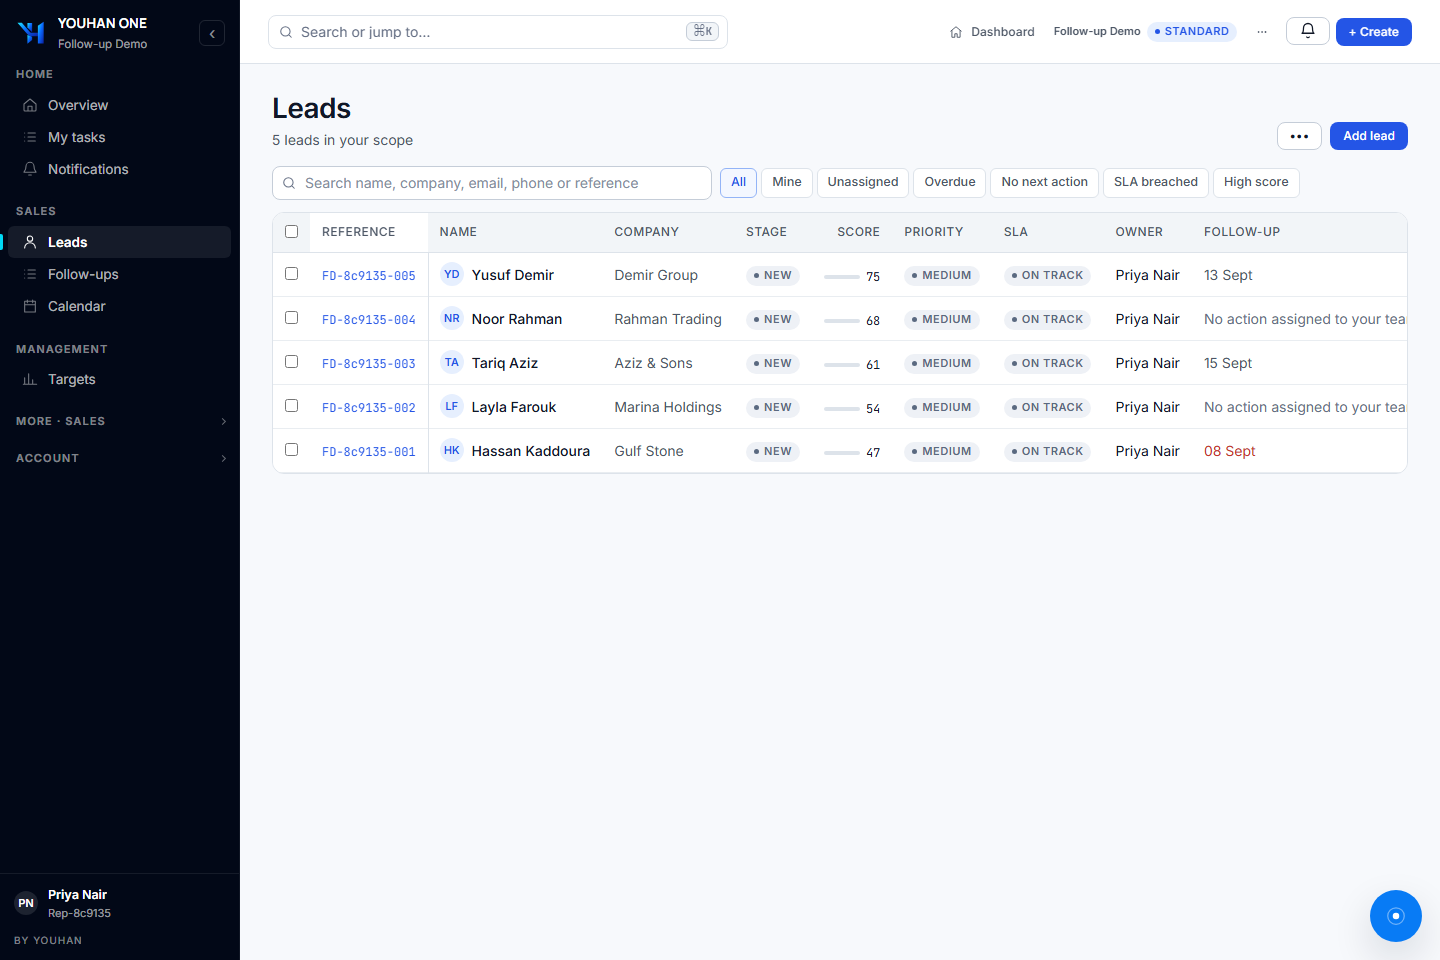
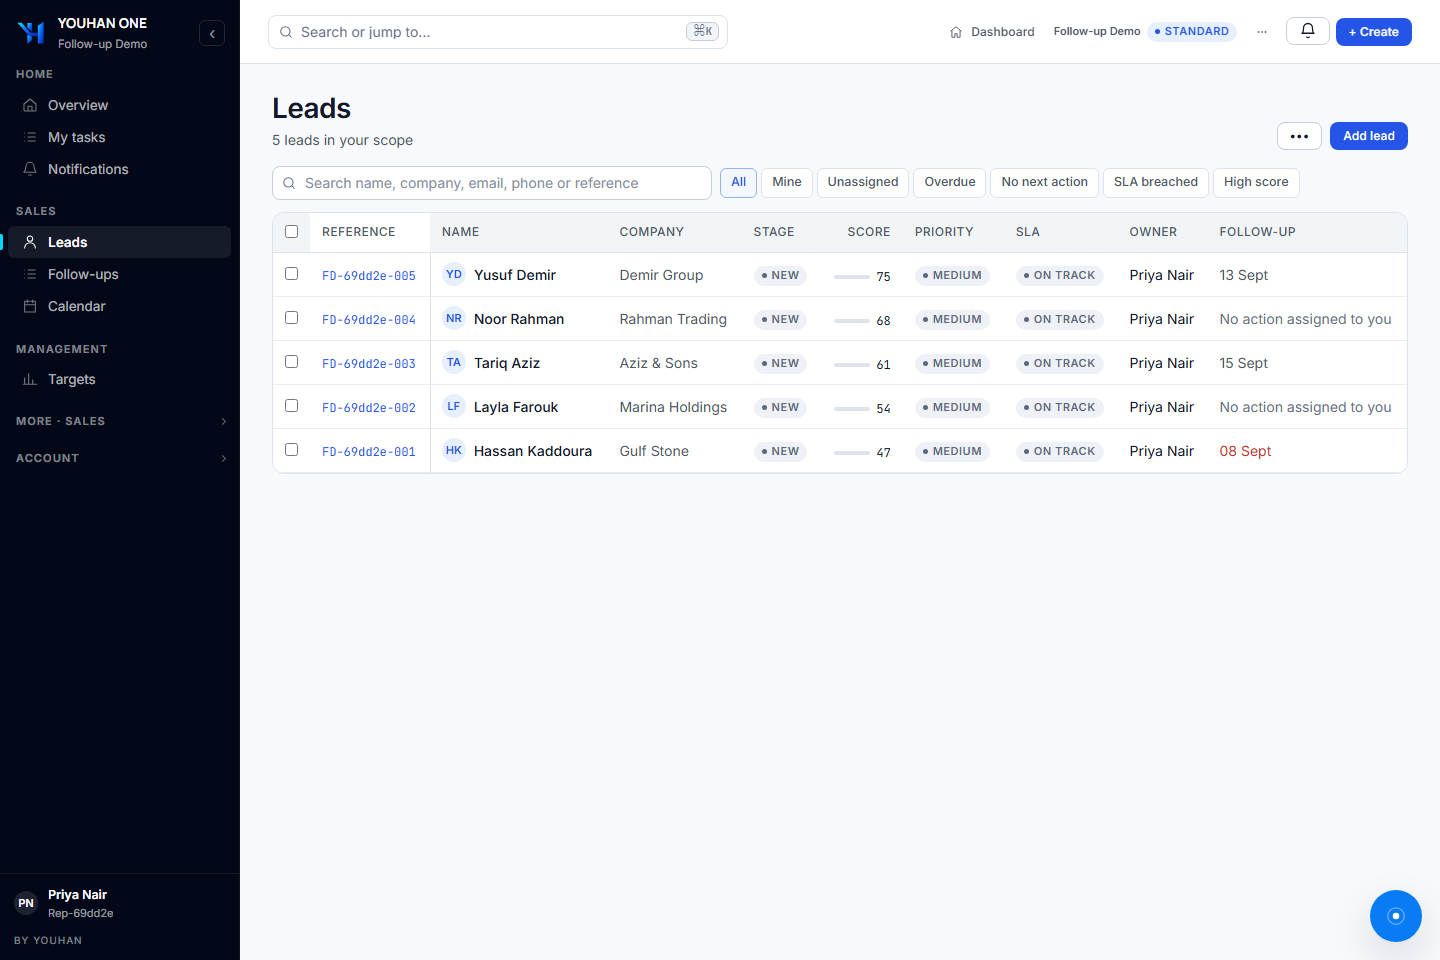
docs(release): release assessment, deployment runbook and handover guide
The assessment reconciles the gate count: neither 13 nor 14 matched CI, which
requires sixteen. Both earlier figures omitted Integration (server) and E2E
entirely — the two gates that exercise a running application — and the
difference between them was only whether the unit suite was counted. Both are
run here.

Recommendation is CONDITIONAL GO, not GO. Booking confirmation takes no row
lock, never moves the unit and has no database constraint, so the same unit can
be sold twice; it is proposed for deferral with the permission restricted,
which is a decision for the client owner rather than something to quietly drop.
The browser-level HR journey did not run — the suite's hire step reads a route
production disables by design — so leave, attendance and payroll have 307
service tests behind them and no browser evidence this round. Runbook smoke
tests 12-15 close that by hand.

The runbook separates application rollback from database recovery and states
that the previous application runs correctly against the new schema, so rollback
needs no database restore. Evidence for each claim is named.

diff --git a/docs/product/HANDOVER-GUIDE.md b/docs/product/HANDOVER-GUIDE.md
@@ -1,0 +1,156 @@
+# Handover guide — YOUHAN ONE / Master Suite
+
+For the people who will use the system on day one, and the people supporting
+them. Short on purpose.
+
+---
+
+## 1. Accounts
+
+**Every person gets their own account.** The `demo@…` accounts created by the
+seed are **not** for production use: they are shared credentials with broad
+permissions, every action they take is attributed to "demo" in the audit trail,
+and anyone who has ever seen the demo can sign in as one.
+
+| Role | Who | What they can reach |
+| --- | --- | --- |
+| Sales Representative | Agents | Their own leads, their own tasks |
+| Team Manager | Team leads | Their team's leads and tasks, reassignment |
+| Branch / Regional Manager | Branch and region heads | Their branch or region |
+| Sales Director | Head of sales | The whole workspace |
+| HR Administrator | HR | Employee records, leave, payroll |
+| Employee | Everyone with an HR record | Their own attendance, leave and payslips |
+
+**First login for every account:** the administrator issues a temporary
+password, and the person is taken straight to "set your own password" and cannot
+go anywhere else until they have. That is intended — do not work around it by
+sharing one account.
+
+---
+
+## 2. Agents — your day
+
+**Your leads list is the start.** `Leads` in the sidebar.
+
+The **Follow-up** column is now **your** next action on that lead — not the
+team's, not your manager's. It reads one of three ways:
+
+| It says | It means |
+| --- | --- |
+| A date in red | You are late |
+| A date in grey | That is when you next owe something |
+| **No action assigned to you** | You have nothing scheduled here. Somebody else may or may not — the system does not tell you, because that is their business. |
+
+**The chips above the list:**
+
+- **Overdue** — leads where *you* are late.
+- **No next action** — live leads with nothing scheduled by you. **These are the
+  ones that quietly go cold.** Work this list once a day.
+- **Mine**, **Unassigned**, **SLA breached**, **High score** — as before.
+
+**On a phone**, the follow-up state is now visible on the lead card. You no
+longer have to open each lead to see what you owe.
+
+**To schedule your next action:** open the lead → add a task or a follow-up with
+a due date. The Follow-up column updates immediately — you do not have to set a
+date on the lead separately, and there is no longer a field that lets you.
+
+**Rescheduling** is changing the due date on the task or follow-up. **Completing**
+it clears the column, unless you have something else open on that lead.
+
+---
+
+## 3. Managers — your day
+
+Everything above, plus:
+
+**Two Overdue chips, and they are different questions:**
+
+- **Overdue · team** — anything late across the people you manage.
+- **Overdue · mine** — only your own commitments.
+
+Counts, filters, dates and the list all use the same definition, so the number
+on your dashboard and the rows you get when you click it agree.
+
+**The unassigned-lead queue** (`Sales → Allocation → Waiting`) lists leads the
+system could not allocate, with the reason. Leads that were already unassigned
+when the system went live show **"Unknown"** for how long they have been waiting
+— that is deliberate. The system does not know, and inventing "3 minutes" for a
+lead that has sat for eight months would be worse than saying nothing.
+
+**Reassignment** is audited. A deactivated employee can no longer receive a new
+lead — if allocation skips someone, that is why.
+
+---
+
+## 4. HR
+
+Employee self-service, attendance, leave, overtime and payroll work as before.
+Two things to know:
+
+1. **Approved leave now blocks lead allocation.** An agent on approved leave will
+   not be given new leads. **A half-day of leave currently blocks the whole
+   day** — the system cannot yet tell which half. If that matters, tell support
+   and record it as a business requirement; do not work around it by cancelling
+   the leave.
+2. **Leave reasons and medical details never reach Sales.** A sales manager
+   seeing that an agent is unavailable sees only "unavailable", never why.
+
+---
+
+## 5. Known limitations to tell people about on day one
+
+| Thing | What people will see | What to say |
+| --- | --- | --- |
+| Booking and agency fee collection | Not part of this release | Use the existing process; it is scheduled next |
+| A saved view built on "next follow-up date" | An explicit notice, and an unfiltered list | Use the **Overdue** or **No next action** view, or rebuild the saved view |
+| Sorting by Follow-up | Sorts the page you are on, not all results | Filter first, then sort |
+| Reminders | Do not fire for follow-ups, only tasks, and only when `OPEN` | Do not rely on reminders yet |
+
+---
+
+## 6. Support and escalation
+
+| Level | Who | For what |
+| --- | --- | --- |
+| 1 | Workspace administrator (client-side) | Passwords, permissions, "I cannot see a lead" |
+| 2 | Production operator | Anything needing the server: a failed deployment, a stuck queue, a restore |
+| 3 | Client owner | Any decision about scope, data or policy |
+
+**Escalate immediately, do not wait for a pattern:** a lead assigned to two
+people; a sign-in loop; an employee seeing another employee's HR record; a
+number on a dashboard that disagrees with the list behind it.
+
+---
+
+## 7. First-day monitoring checklist
+
+Run at **start of day, midday and end of day** on day one. Ten minutes each.
+
+| # | Check | Where | Healthy looks like |
+| --- | --- | --- | --- |
+| 1 | Application answering | `GET /api/health/ready` | success |
+| 2 | Running version | container `BUILD_COMMIT` | the release SHA, not `unknown` |
+| 3 | Workers alive | worker container logs | `workers started`, 9 queues |
+| 4 | Nothing stuck in the queues | BullMQ / logs | no growing backlog |
+| 5 | **Notifications delivering** | `NotificationOutbox` | no row `PENDING` for more than 10 minutes; `ABANDONED` is 0 |
+| 6 | **Follow-up drift** | worker log at 03:20, or `rc-preflight.mjs` | **0 after the backfill.** Non-zero means a write path is not recomputing — escalate, do not "fix" by re-running the backfill |
+| 7 | Unassigned queue not growing | `Sales → Allocation → Waiting` | stable or falling |
+| 8 | Errors | web container logs | no `"level":50` entries you cannot explain |
+| 9 | Sign-ins working | ask two real users | no reports |
+| 10 | Mail arriving | ask one person who was invited | received, and the link works |
+
+Stop and consider rollback (runbook §9) if 1, 2, 3 or 9 fails, or if 5 shows
+notifications piling up.
+
+---
+
+## 8. What "done" looks like at the end of day one
+
+- Every client user has signed in with their own account and set their own
+  password.
+- At least one lead has gone capture → assign → follow-up → complete.
+- At least one leave request has gone request → approve.
+- The drift canary reports zero.
+- No `ABANDONED` notifications.
+- Nobody has needed the demo account.

diff --git a/docs/product/RELEASE-ASSESSMENT.md b/docs/product/RELEASE-ASSESSMENT.md
@@ -17,27 +17,25 @@ environment; **nothing has been merged, deployed, or run against production.**
 | | |
 | --- | --- |
 | Branch | `claude/restructure-foundation` |
-| Tested SHA | `508ae02` and the documentation commits after it |
-| Web image | `master-suite/web:a032de1` — built from `a032de1a8a7ad2be753dda84ee1fcfa46e86b481` |
-| Worker image | `master-suite/worker:a032de1` |
+| Tested SHA | `c09cb43e6058e6d9244e8ddb4e5afdad87bfd3b2` |
+| Web image | `master-suite/web:c09cb43` — built from the tested SHA, verified in-container |
+| Worker image | `master-suite/worker:a032de1` — built from `a032de1`; the worker stage is unaffected by the two commits after it (a Dockerfile `COPY` in the **production** stage, and Sales page code the worker does not load) |
 | Previously deployed | assumed at or after `main` (`f16ed67`) — **the operator must confirm with `scripts/release.sh status`** |
 
 ### 1.1 Difference between HEAD and the tested SHA
 
-`508ae02` is the last commit containing code. Everything after it on this branch
-is documentation — this file, the runbook, and the checkpoint. Verified with
-`git diff --name-only 508ae02 HEAD`; no code file appears. No test was repeated
-for a documentation-only difference.
+`c09cb43` is the last commit containing code, and the web image was built from
+it — `BUILD_COMMIT` inside the running container reads
+`c09cb43e6058e6d9244e8ddb4e5afdad87bfd3b2`. Everything after it on this branch
+is documentation: this file, the runbook and the handover guide. Verify with
+`git diff --name-only c09cb43 HEAD`; no code file appears, so no test was
+repeated for it.
 
-**The images were built from `a032de1`,** the commit before the release tooling
-(`508ae02`) was added. `a032de1 → 508ae02` adds four operator scripts
-(`rc-preflight`, `rc-rehearse-migration`, `rc-mail-check`, `rc-worker-check`)
-and splits the foreign-key migration into two files. **The migration split is a
-behaviour change and the images predate it**, so either rebuild the images at
-`508ae02` before deploying, or accept that `prisma migrate deploy` is run from
-the repository rather than the image — which is what the runbook specifies. The
-runbook's migration step uses the repository, so the split is applied either
-way; this is recorded so nobody assumes image and migrations came from the same
+**The worker image is still tagged `a032de1`.** The two commits between
+`a032de1` and `c09cb43` are a `COPY` added to the Dockerfile's **production**
+stage and Sales page code; neither is reachable from the worker entry point.
+Rebuilding it at `c09cb43` before deploying is cheap and removes the question —
+recommended, and recorded here so nobody assumes the two images came from one
 commit.
 
 ---
@@ -64,6 +62,7 @@ database, not through a browser. **Not exercised**: no evidence from this round.
 | Agent vs team scope | **Verified** at route level; service-verified for the follow-up split | — | — | **Included** |
 | Every Sales route renders | **Verified** | — | — | **Included** |
 | Mobile daily workflow | **Verified** — no sideways scroll at 375px; HR tables stack; follow-up state now visible on phones | — | — | **Included** |
+| Install to home screen / offline (PWA) | **Verified after a fix** — `sw.js`, `offline.html` and both icons 404'd in **every image ever built** because the Dockerfile never copied `public/`. Found by reading a browser-console 404 against the release artifact. | — | — | **Included** |
 
 ### 2.2 HRMS
 
@@ -167,8 +166,36 @@ claims should be read with that omission in mind. Both are run here.
 ### 3.2 Results
 
 Run on Linux (`node:24`), the deployment operating system, against isolated
-services. Results are recorded in the delivery summary accompanying this
-document; a gate that failed is named there rather than folded into a total.
+services, on the tested SHA.
+
+| # | Gate | Result |
+| --- | --- | --- |
+| 1 | Schema drift | **PASS** |
+| 2 | Tenant isolation (RLS, 184 forced tables) | **PASS** |
+| 3 | Raw SQL scope | **PASS** |
+| 4 | Typecheck | **PASS** |
+| 5 | Lint | **PASS** |
+| 6 | Format check | **PASS** |
+| 7 | README schema counts | **PASS** |
+| 8 | Observability drift | **PASS** |
+| 9 | Redis auth | **PASS** |
+| 10 | Face token gate | **PASS** |
+| 11 | Backup round trip | **PASS** |
+| 12 | Unit suite | **PASS — 2,136 / 2,136, 160 / 160 files, 0 skipped** |
+| 13 | Integration (server) | **PASS — 6 / 6.** Run on **Windows**, not Linux: the suite deletes Redis keys by pattern and its isolation guard requires a loopback Redis, which a container reaching the host cannot present. The guard was satisfied, not overridden. |
+| 14 | E2E (browser) | **40 passed / 5 failed / 0 skipped** — §3.3 |
+| 15 | Build | **PASS** |
+| 16 | Audit | **PASS — 0 vulnerabilities** |
+
+Two gate failures were found and fixed rather than excused:
+
+- **Lint** failed on an unused variable in the preflight script I had added.
+  Caught because the gate was run as CI runs it (`npm run lint`) rather than as
+  a spot check.
+- **Integration (server)** first refused because the database I named
+  `master_suite_linux` is not on the disposable allow-list (`_test`, `_val`,
+  `_ci`, `_e2e`, `_scratch`, `_tmp`). A database named `master_suite_ci` was
+  created instead. `E2E_ALLOW_UNMARKED_DATABASE=yes` exists and was **not** used.
 
 ### 3.3 Browser suite — what ran, what did not, and why
 
